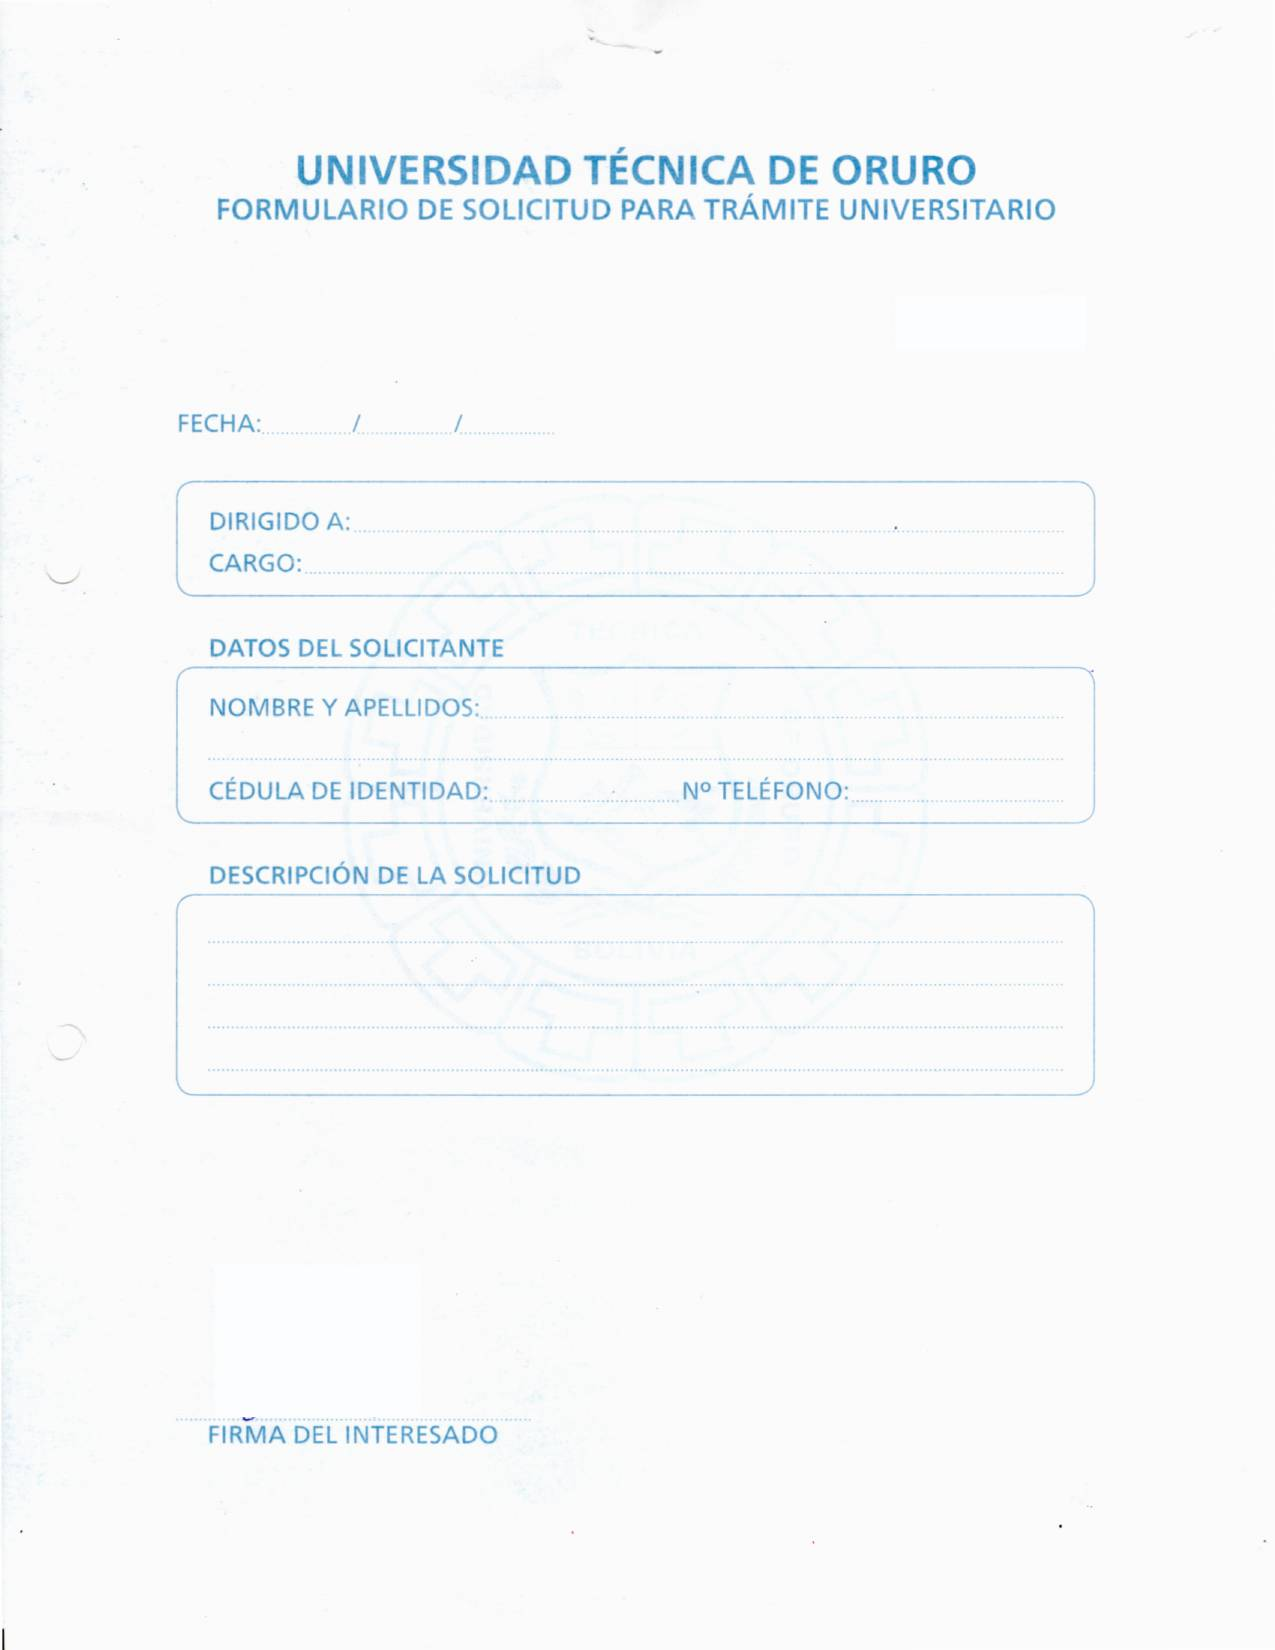
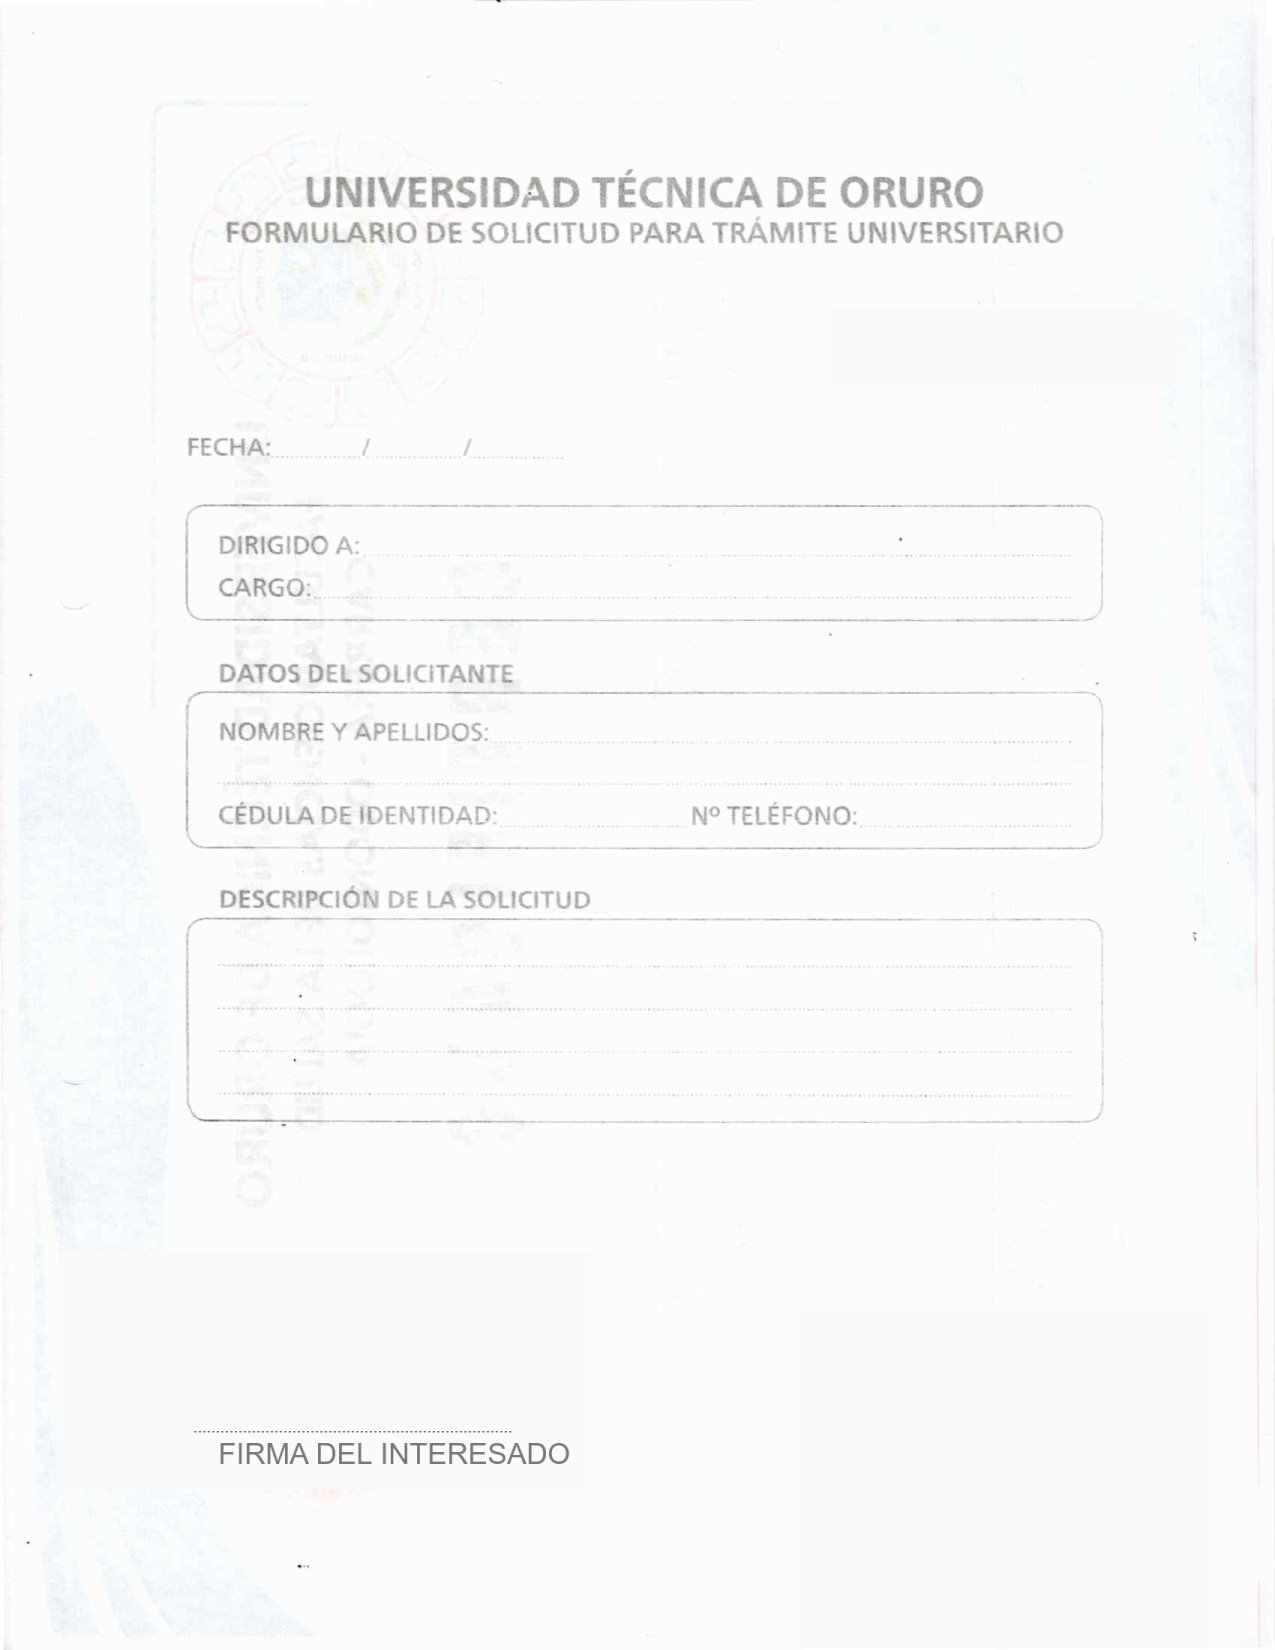
Trámite A/B: Formato 1 re-medido sobre el formulario en blanco
- Coordenadas del formato 1 medidas de nuevo sobre el escaneo en blanco
  (todo caía ~4,3 mm más abajo que en el escaneo anterior).
- Datos centrados en su tramo de puntos; la descripción empieza 5 mm
  después del inicio de los puntos.
- Letra más chica (9 pt datos, 8,5 pt descripción) y 1,3 mm sobre la
  línea para no chocar con los puntos. El formato 2 no cambia.
- Nuevo fondo de vista previa (N°, firma y sello tapados).

diff --git a/tcpdf/pdf/certificado-tramite-pdf.php b/tcpdf/pdf/certificado-tramite-pdf.php
@@ -104,17 +104,26 @@ if ($voucherRepetido) {
 $FORMATOS = [
     '1' => [
         'nombre' => 'Formato 1 (celeste, líneas de puntos)',
-        'fecha' => ['y' => 73.2, 'dia' => [44.4, 59.6], 'mes' => [61.0, 76.5], 'anio' => [78.2, 94.0]],
-        // Dirigido a y Cargo 5 mm más a la derecha (pedido de Luis tras imprimir, 2026-11-12)
-        'dirigido' => ['y' => 89.9, 'x1' => 65.5, 'x2' => 180.0],
-        'cargo' => ['y' => 97.0, 'x1' => 57.0, 'x2' => 180.0],
-        'nombre1' => ['y' => 121.4, 'x1' => 83.0, 'x2' => 180.0],
-        'nombre2' => ['y' => 128.5, 'x1' => 35.5, 'x2' => 180.0],
-        'ci' => ['y' => 135.6, 'x1' => 85.5, 'x2' => 114.8],
-        'telefono' => ['y' => 135.6, 'x1' => 146.5, 'x2' => 180.0],
-        'descripcion' => [159.5, 166.8, 173.9, 181.0], 'descX1' => 35.5, 'descX2' => 180.0,
+        // Medido de nuevo sobre el escaneo del formulario en blanco que mandó Luis
+        // (img20261113_08070353, 200 dpi, 2026-11-13). Cada tramo = donde empiezan y terminan
+        // los puntos, con 1,5 mm de margen. Los datos van CENTRADOS en su tramo, menos la
+        // descripción, que empieza 5 mm después de donde empiezan los puntos.
+        'fecha' => ['y' => 77.6, 'dia' => [46.1, 61.2], 'mes' => [62.3, 78.8], 'anio' => [79.7, 95.5]],
+        'dirigido' => ['y' => 94.4, 'x1' => 62.6, 'x2' => 179.7],
+        'cargo' => ['y' => 101.6, 'x1' => 54.7, 'x2' => 179.7],
+        'nombre1' => ['y' => 125.7, 'x1' => 84.5, 'x2' => 179.6],
+        'nombre2' => ['y' => 132.6, 'x1' => 38.6, 'x2' => 179.6],
+        'ci' => ['y' => 139.8, 'x1' => 86.1, 'x2' => 114.3],
+        'telefono' => ['y' => 139.8, 'x1' => 146.6, 'x2' => 179.6],
+        // Descripción medio centímetro más a la derecha (pedido de Luis, 2026-11-13)
+        'descripcion' => [163.6, 170.9, 178.1, 185.4], 'descX1' => 43.0, 'descX2' => 179.7,
         'claveAjuste' => 'TRAMITE_AJUSTE',
         'corrimiento' => [0.0, 0.0],
+        // Letra algo más chica y un poco más separada de los puntos, para que no los toque
+        'centrar' => true,
+        'letraMax' => 9.0,
+        'letraMaxDescripcion' => 8.5,
+        'sobreLinea' => 1.3,
     ],
     '2' => [
         'nombre' => 'Formato 2 (negro, líneas continuas)',
@@ -153,10 +162,11 @@ $ajusteImpresion = function ($eje) use ($prueba, $F) {
 };
 define('AJUSTE_X', $ajusteImpresion('X') + $F['corrimiento'][0]);
 define('AJUSTE_Y', $ajusteImpresion('Y') + $F['corrimiento'][1]);
-$SOBRE_LINEA = 0.9;   // el texto queda 0,9 mm encima de la línea
-$LETRA_MAX = 10;      // pt
+$SOBRE_LINEA = $F['sobreLinea'] ?? 0.9;   // mm que el texto queda encima de la línea
+$LETRA_MAX = $F['letraMax'] ?? 10;        // pt
 $LETRA_MIN = 6.5;     // pt: más chico ya no se lee bien
-$LETRA_MAX_DESCRIPCION = 9.5; // pt: la descripción, algo más pequeña que los demás datos (Luis la pidió de 8,5 a más grande)
+$LETRA_MAX_DESCRIPCION = $F['letraMaxDescripcion'] ?? 9.5; // pt (formato 2: Luis la pidió de 8,5 a más grande)
+$ALINEAR = !empty($F['centrar']) ? 'C' : 'L'; // alineación de los datos de una línea (no la descripción)
 
 $FECHA = $F['fecha'];
 $DIRIGIDO = $F['dirigido'];
@@ -314,10 +324,10 @@ $escribir(date('d', $t), $FECHA['dia'][0], $FECHA['dia'][1], $FECHA['y'], $LETRA
 $escribir(date('m', $t), $FECHA['mes'][0], $FECHA['mes'][1], $FECHA['y'], $LETRA_MAX, 'C');
 $escribir(date('Y', $t), $FECHA['anio'][0], $FECHA['anio'][1], $FECHA['y'], $LETRA_MAX, 'C');
 
-$dato($dirigido, $DIRIGIDO, 'Dirigido a');
-$dato($cargo, $CARGO, 'Cargo');
-$dato($ci, $CI, 'Cédula de identidad');
-$dato($telefono, $TELEFONO, 'N° de teléfono');
+$dato($dirigido, $DIRIGIDO, 'Dirigido a', $ALINEAR);
+$dato($cargo, $CARGO, 'Cargo', $ALINEAR);
+$dato($ci, $CI, 'Cédula de identidad', $ALINEAR);
+$dato($telefono, $TELEFONO, 'N° de teléfono', $ALINEAR);
 
 // Nombre: primero en su línea; si no entra, sigue en la línea de abajo
 foreach ([[$NOMBRE[0]], $NOMBRE] as $lineasNombre) {
@@ -328,7 +338,7 @@ if (!$r) {
     $falla('El nombre es demasiado largo para las líneas del formulario.');
 }
 foreach ($r[1] as $i => $texto) {
-    $escribir($texto, $NOMBRE[$i]['x1'], $NOMBRE[$i]['x2'], $NOMBRE[$i]['y'], $r[0]);
+    $escribir($texto, $NOMBRE[$i]['x1'], $NOMBRE[$i]['x2'], $NOMBRE[$i]['y'], $r[0], $ALINEAR);
 }
 
 // Descripción: hasta 4 líneas, todas con el mismo tamaño de letra
